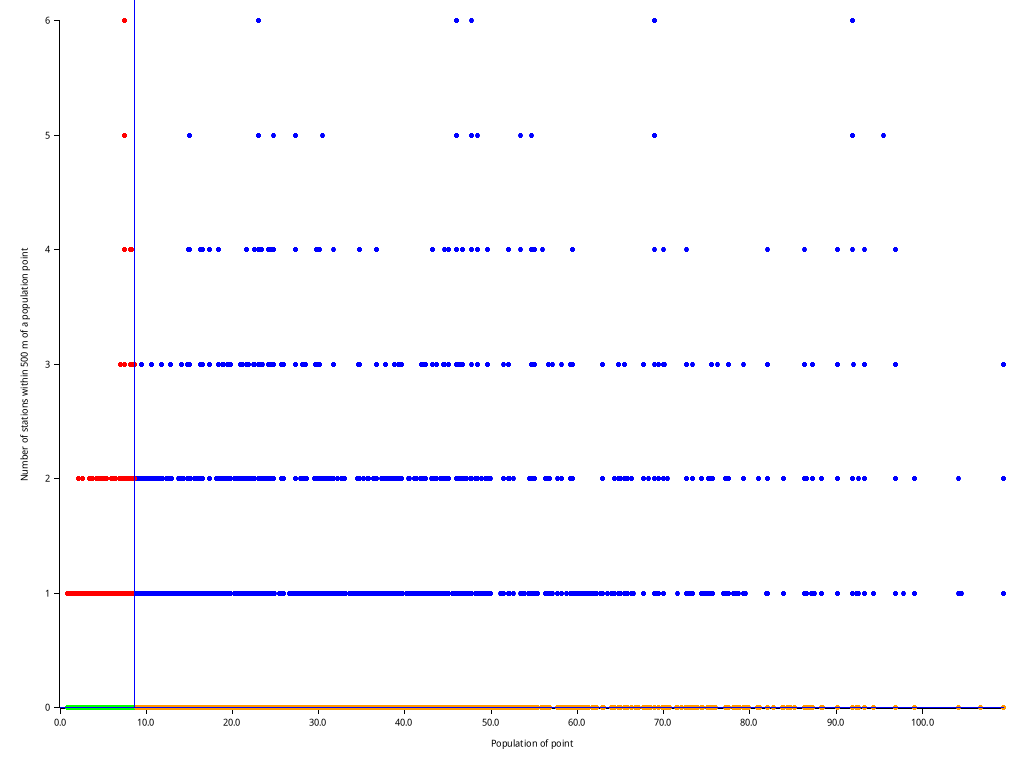
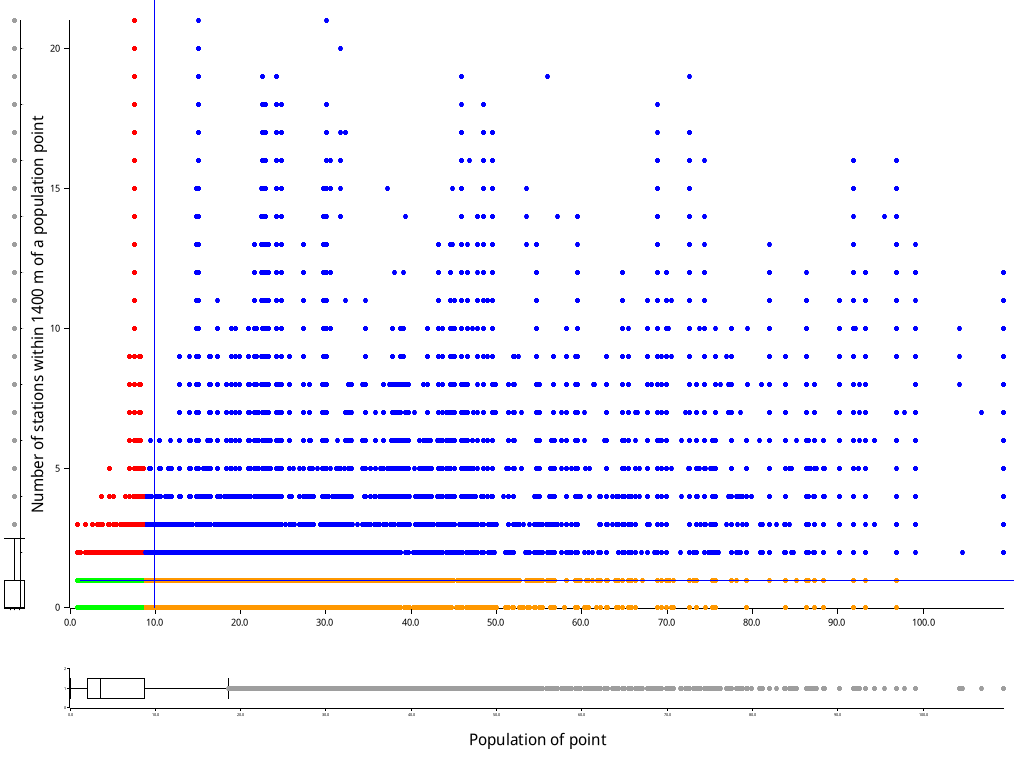
Plot boxplots with the quadrants scatterplot and fix order of colors in map

diff --git a/rust/src/bin/quadrants.rs b/rust/src/bin/quadrants.rs
@@ -1,5 +1,6 @@
 // Usage: target/release/quadrant [X meters]
 
+use plotters::style::full_palette::GREY;
 use plotters::{prelude::*, style::full_palette::ORANGE};
 use rayon::prelude::*;
 use rstar::RTree;
@@ -138,15 +139,22 @@ impl Plot<Vec<(f64, i32)>, Vec<(f64, i32)>> for Quadrants {
             .into_drawing_area();
 
         root.fill(&WHITE)?;
+        let roots = root.split_by_breakpoints([10_i32], [668_i32]);
+        let left_box_area = &roots[0];
+        let scatterplot_area = &roots[1];
+        let bottom_box_area = &roots[3];
+        //let (upper, bottom_box_area) = root.split_vertically(668);
+        //let (left_box_area, scatterplot_area) = upper.split_horizontally(10);
 
         let max_x_value = data.iter().map(|x| x.0).fold(f64::NAN, f64::max);
-        let mut scatter_ctx = ChartBuilder::on(&root)
+        let max_y_value = data.iter().map(|x| x.1).max().unwrap();
+        let mut scatter_ctx = ChartBuilder::on(scatterplot_area)
             .margin(20_i32)
             .x_label_area_size(40_i32)
             .y_label_area_size(40_i32)
             .build_cartesian_2d(
                 0_f64..max_x_value,
-                0..data.iter().map(|x| x.1).max().unwrap(),
+                0..max_y_value,
             )?;
 
         scatter_ctx
@@ -155,7 +163,7 @@ impl Plot<Vec<(f64, i32)>, Vec<(f64, i32)>> for Quadrants {
                 "Number of stations within {} m of a population point",
                 self.distance_threshold
             ))
-            .x_desc("Population of point")
+            .axis_desc_style(("sans-serif", 20_i32).into_text_style(scatterplot_area))
             .disable_x_mesh()
             .disable_y_mesh()
             .draw()?;
@@ -181,7 +189,7 @@ impl Plot<Vec<(f64, i32)>, Vec<(f64, i32)>> for Quadrants {
         }))?;
 
         plot_vline(
-            &root,
+            scatterplot_area,
             &scatter_ctx,
             pop_q3.into(),
             0,
@@ -191,7 +199,7 @@ impl Plot<Vec<(f64, i32)>, Vec<(f64, i32)>> for Quadrants {
         .unwrap();
 
         plot_hline(
-            &root,
+            scatterplot_area,
             &scatter_ctx,
             n_stations_q3 as i32,
             0,
@@ -199,6 +207,68 @@ impl Plot<Vec<(f64, i32)>, Vec<(f64, i32)>> for Quadrants {
             BLUE.filled(),
         )
         .unwrap();
+
+        let mut chart = ChartBuilder::on(bottom_box_area)
+            .margin(20_i32)
+            .margin_top(0)
+            .x_label_area_size(40_i32)
+            .y_label_area_size(40_i32)
+            .build_cartesian_2d(0_f32..(max_x_value as f32), 0..2_i32)?;
+
+        chart
+            .configure_mesh()
+            .x_desc("Population of point")
+            .axis_desc_style(("sans-serif", 20_i32).into_text_style(bottom_box_area))
+            .disable_x_mesh()
+            .disable_y_mesh()
+            .draw()?;
+
+        let pops: Vec<_> = data.iter().map(|x| x.0).collect();
+        let pop_quartiles = Quartiles::new(&pops);
+        let boxplot = Boxplot::new_horizontal(1, &pop_quartiles).width(20);
+        chart.draw_series([boxplot])?;
+
+        // TODO: copied from stations_within_pp.rs
+        let lower = pop_quartiles.values()[0];
+        let upper = pop_quartiles.values()[4];
+        let outliers = pops.iter().filter(|x| {
+            let x = **x as f32;
+            x < lower || x > upper
+        });
+        chart
+            .draw_series(outliers.map(|x| {
+                Circle::new((*x as f32, 1_i32), 2_i32, GREY.filled())
+            }))?;
+
+        let mut chart = ChartBuilder::on(left_box_area)
+            .margin(20_i32)
+            .margin_right(0_i32)
+            .x_label_area_size(40_i32)
+            .y_label_area_size(40_i32)
+            .build_cartesian_2d(0..2_i32, 0_f32..(max_y_value as f32))?;
+
+        chart
+            .configure_mesh()
+            .disable_x_mesh()
+            .disable_y_mesh()
+            .draw()?;
+
+        let n_stations: Vec<_> = data.iter().map(|x| x.1).collect();
+        let n_stations_quartiles = Quartiles::new(&n_stations);
+        let boxplot = Boxplot::new_vertical(1, &n_stations_quartiles).width(20);
+        chart.draw_series([boxplot])?;
+
+        // TODO: copied from stations_within_pp.rs
+        let lower = n_stations_quartiles.values()[0];
+        let upper = n_stations_quartiles.values()[4];
+        let outliers = n_stations.iter().filter(|x| {
+            let x = **x as f32;
+            x < lower || x > upper
+        });
+        chart
+            .draw_series(outliers.map(|x| {
+                Circle::new((1_i32, *x as f32), 2_i32, GREY.filled())
+            }))?;
 
         root.present().unwrap();
 

diff --git a/python/plot_quadrants_map.py b/python/plot_quadrants_map.py
@@ -22,7 +22,7 @@ grays['y'] = grays['y'].astype(float)
 
 df = None
 
-for point_type in {'red', 'orange', 'blue', 'green'}:
+for point_type in ('red', 'orange', 'blue', 'green'):
     color_df = main(ax, city, point_type)
     if df is None:
         df = color_df

diff --git a/README.md b/README.md
@@ -24,17 +24,17 @@ For both cities, most population points have zero stations near it. The minority
 
 ![london_quadrant](examples/london_quadrant.png)
 
-There are two lines dividing the plot. The vertical line represents the 3rd quartile of the population of the points. The horizontal line represents the 3rd quartile of the number of stations, which is 0 stations at 500 meters. The points are coloured based on their quadrant. Red points are those with a "normal" population but high number of stations near it. Orange points are those with high population but low number of stations near it. Blue points are those with both high population and high number of stations near it. Green points are those with both low population and low number of stations near it.
+There are two lines dividing the plot. The vertical line represents the 3rd quartile of the population of the points. The horizontal line represents the 3rd quartile of the number of stations, which is 0 stations at 1400 meters. The points are coloured based on their quadrant. Red points are those with a "normal" population but high number of stations near it. Orange points are those with high population but low number of stations near it. Blue points are those with both high population and high number of stations near it. Green points are those with both low population and low number of stations near it.
 
-London: Scatterplot of the number of stations that are within 500m of a population point, and its population.
+London: Scatterplot of the number of stations that are within 1400m of a population point, and its population.
 
 ![tokyo_quadrant](examples/tokyo_quadrant.png)
 
-Tokyo: Scatterplot of the number of stations that are within 500m of a population point, and its population
+Tokyo: Scatterplot of the number of stations that are within 1400m of a population point, and its population
 
 ![london_quadrants_map](examples/london_quadrants_map.png)
 
-London: map of the population points coloured by its quadrants in the scatterplot above. The red points closely follow the tube stations. There is not a lot of people that live 500m within a station, so it is low population but "high" number of stations near it. The blue points also follow tube stations but closer to the city center, which makes sense as the population are higher nearer the center. Most of London is yellow or green - that is, with few stations close by, regardless of population. Yellow is for high population and green is for low population, which is why yellow points are tend to be more central than green, which is properly "rural".
+London: map of the population points coloured by its quadrants in the scatterplot above. The red points closely follow the tube stations. There is not a lot of people that live 1400m within a station, so it is low population but "high" number of stations near it. The blue points also follow tube stations but closer to the city center, which makes sense as the population are higher nearer the center. Most of London is yellow or green - that is, with few stations close by, regardless of population. Yellow is for high population and green is for low population, which is why yellow points are tend to be more central than green, which is properly "rural".
 
 ![tokyo_quadrants_map](examples/tokyo_quadrants_map.png)
 
@@ -162,7 +162,7 @@ Calculating distances requires the coordinates to be in meters rather than lat/l
 
 # Analysis
 
-## Cumulative population within a certain distance of a train station
+## Barplot: cumulative population within a certain distance of a train station
 
 ```sh
 cd rust
@@ -174,7 +174,7 @@ cd ..
 python python/plot_props.py
 ```
 
-## Stations within population points
+## Boxplot: stations within population points
 
 ```sh
 cd rust
@@ -190,28 +190,30 @@ This program uses a R\* tree, which is O(log(n)) for searching, and O(n\*log(n))
 
 There are m population points, so searching for the nearest station for every population point is O(m\*log(n)). The number of population points m >>> number of stations n, m >>> log(n), so it's basically O(m). This is significantly faster than O(n\*m).
 
-## Population points and number of stations within X meters of the points
+## Scatterplot with quadrants: Population points and number of stations within X meters of the points
+
+We choose 1400 meters here because this is the closest distance where the Q3 of number of stations within 1400 meters is higher than 1, for both cities
 
 ```sh
 cd rust
 cargo b --release --bin quadrants
 # Usage: target/release/quadrant [X meters]
-target/release/quadrants 500
+target/release/quadrants 1400
 ```
 
 ## Map of all population points, colored by their quadrant
 
 ```sh
 cd rust
-target/release/quadrant_coords london 500 red > ../data/london_reds.csv
-target/release/quadrant_coords london 500 orange > ../data/london_oranges.csv
-target/release/quadrant_coords london 500 blue > ../data/london_blues.csv
-target/release/quadrant_coords london 500 green > ../data/london_greens.csv
+target/release/quadrant_coords london 1400 red > ../data/london_reds.csv
+target/release/quadrant_coords london 1400 orange > ../data/london_oranges.csv
+target/release/quadrant_coords london 1400 blue > ../data/london_blues.csv
+target/release/quadrant_coords london 1400 green > ../data/london_greens.csv
 
-target/release/quadrant_coords tokyo 500 red > ../data/tokyo_reds.csv
-target/release/quadrant_coords tokyo 500 orange > ../data/tokyo_oranges.csv
-target/release/quadrant_coords tokyo 500 blue > ../data/tokyo_blues.csv
-target/release/quadrant_coords tokyo 500 green > ../data/tokyo_greens.csv
+target/release/quadrant_coords tokyo 1400 red > ../data/tokyo_reds.csv
+target/release/quadrant_coords tokyo 1400 orange > ../data/tokyo_oranges.csv
+target/release/quadrant_coords tokyo 1400 blue > ../data/tokyo_blues.csv
+target/release/quadrant_coords tokyo 1400 green > ../data/tokyo_greens.csv
 
 cd ..
 python python/plot_quadrants_map.py london
@@ -223,8 +225,8 @@ The individual quadrants can be mapped alone as well:
 ```sh
 cargo b --release --bin quadrant_coords
 # Usage: target/release/quadrant_coords [city] [X meters] [point_type]
-target/release/quadrant_coords london 500 red > ../data/london_reds.csv
-target/release/quadrant_coords tokyo 500 red > ../data/tokyo_reds.csv
+target/release/quadrant_coords london 1400 red > ../data/london_reds.csv
+target/release/quadrant_coords tokyo 1400 red > ../data/tokyo_reds.csv
 
 cd ..
 python python/plot_significant_quadrants_map.py london reds
